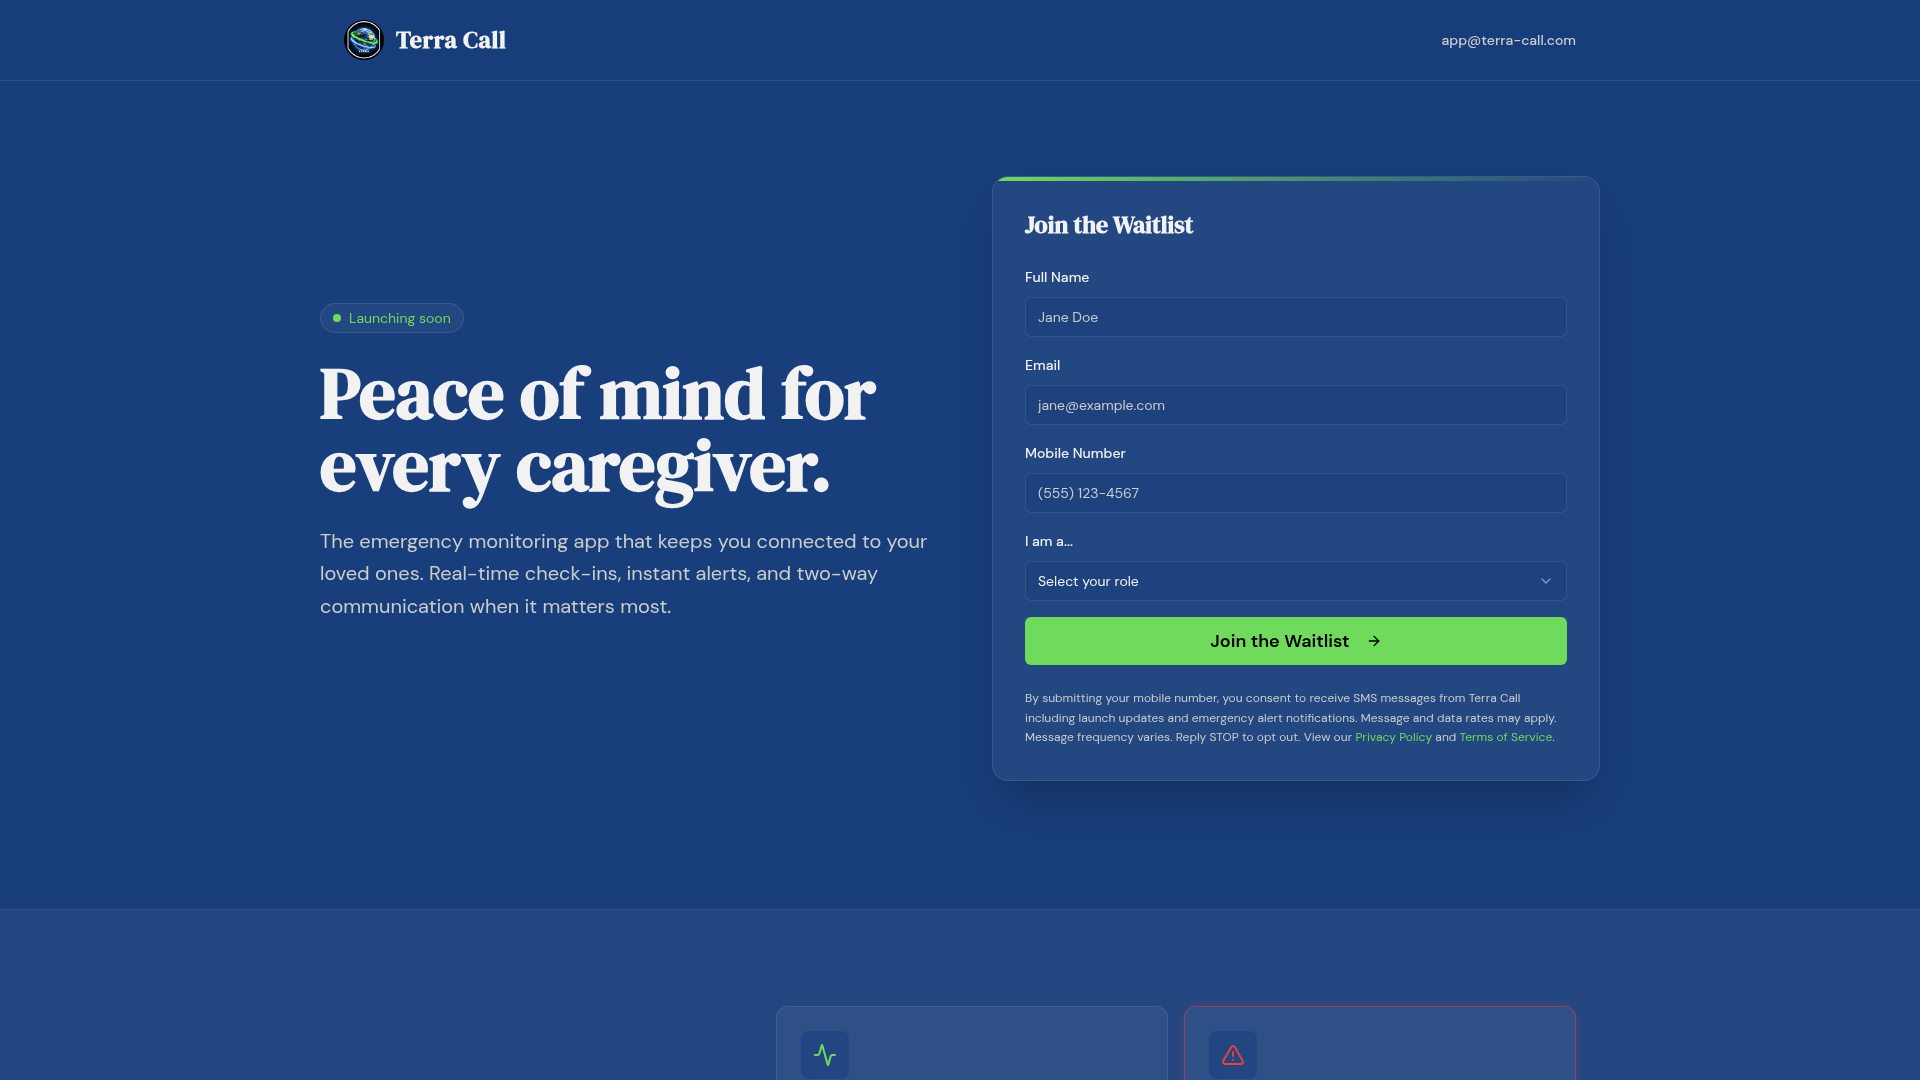
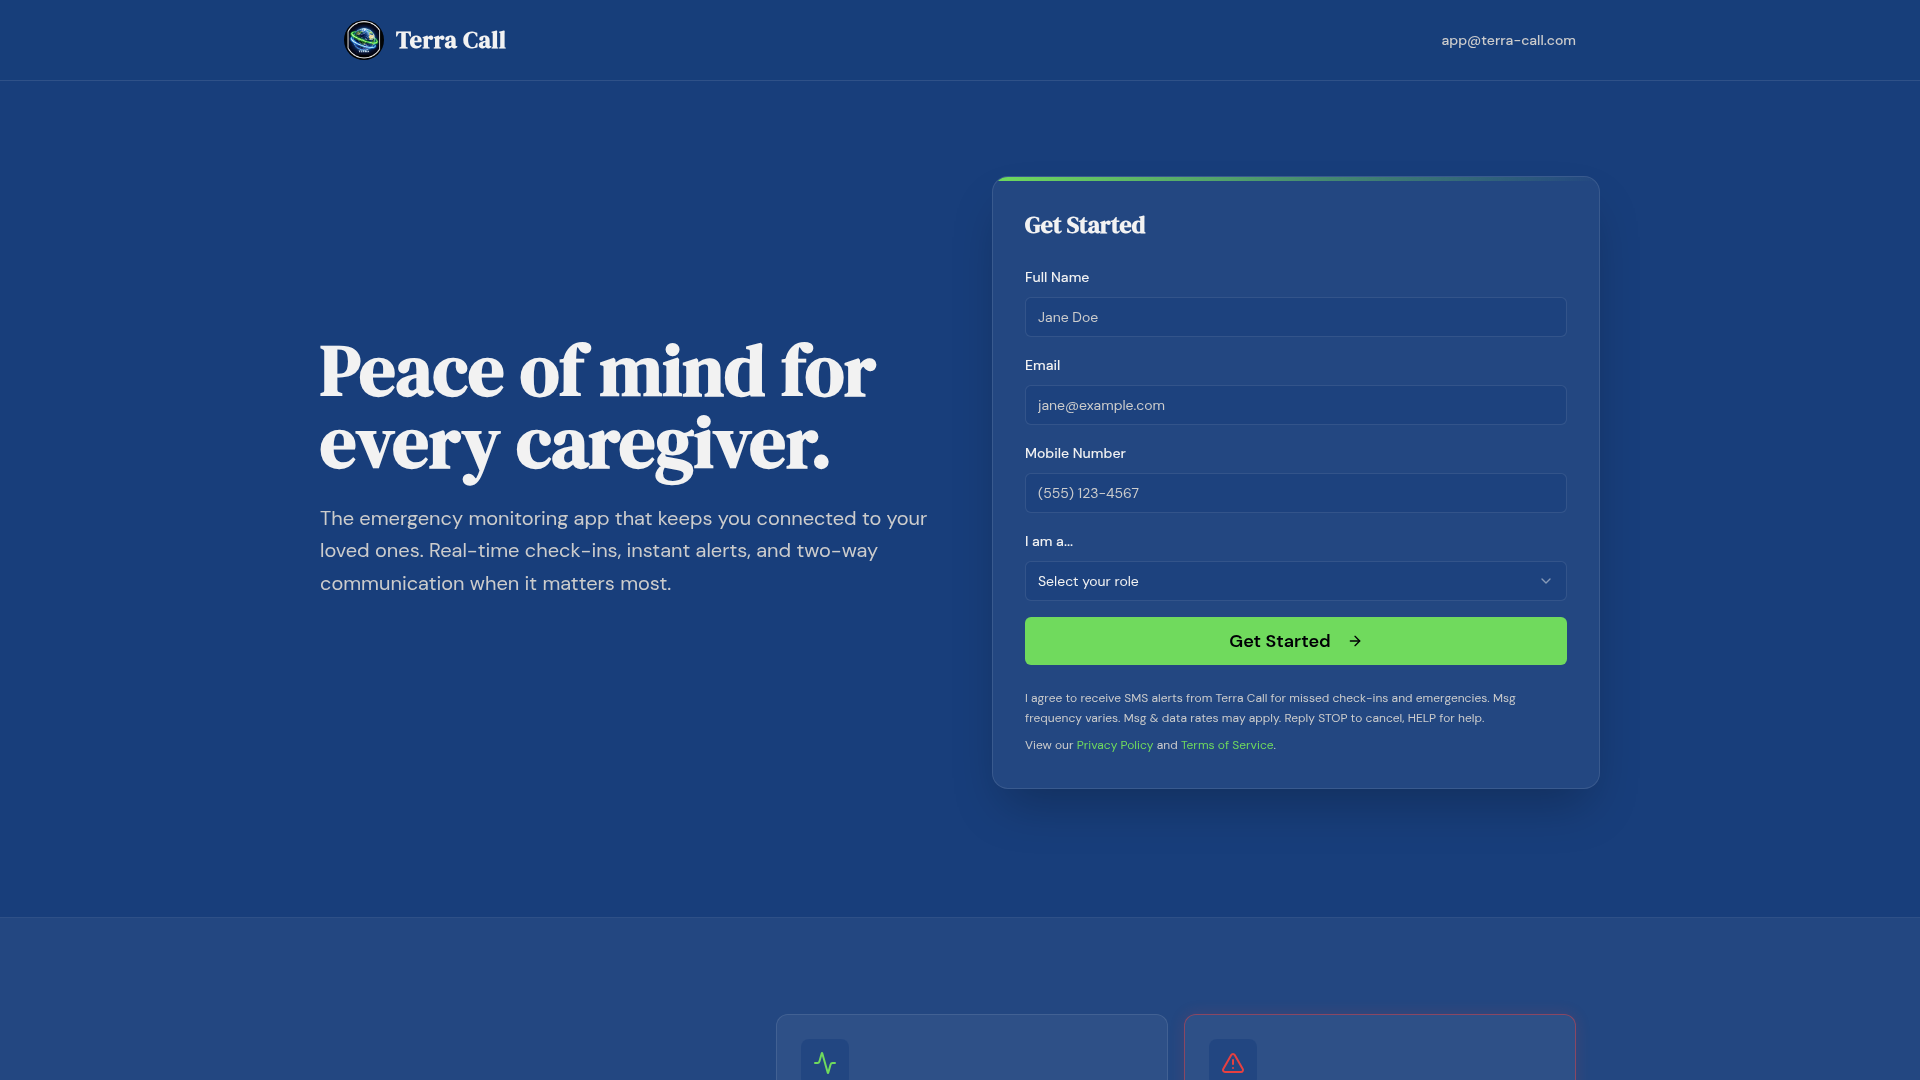
Add documentation for external website verification and troubleshooting
Document the process for verifying external website deployments using JavaScript bundle hashes and troubleshooting Cloudflare caching issues, along with details on Twilio A2P campaign requirements.

Replit-Commit-Author: Agent
Replit-Commit-Session-Id: 34d706d4-143b-492d-ac2d-494b000dca86
Replit-Commit-Checkpoint-Type: full_checkpoint
Replit-Commit-Event-Id: c2e0b4ad-cbe6-41a0-9a7f-4d9fa8b2b832
Replit-Commit-Screenshot-Url: https://storage.googleapis.com/screenshot-production-us-central1/0877f384-af64-4683-913a-f17162f0d0ae/34d706d4-143b-492d-ac2d-494b000dca86/DtHcIni
Replit-Helium-Checkpoint-Created: true

diff --git a/.agents/memory/terra-call-website.md b/.agents/memory/terra-call-website.md
@@ -1,0 +1,26 @@
+---
+name: terra-call.com marketing/legal website (external)
+description: The public website is NOT in this Replit project; how to verify its deploys and why Twilio A2P kept failing.
+---
+
+# terra-call.com — external site, not in this repo
+
+The public marketing/legal site at terra-call.com is built on a separate "Vibe" platform and fronted by Cloudflare. It is NOT one of this project's artifacts (this repo only has mobile, api-server, mockup-sandbox). You can VIEW it (curl + external_url screenshot) but cannot edit its source from here. Edits/deploys happen on the external platform.
+
+## Verifying a deploy actually went live
+- **Trust the hashed JS bundle, not `last-modified`.** The page is a Vite SPA; the real content lives in `/assets/index-<hash>.js`. A genuine code change produces a NEW hash. If the bundle hash is unchanged, the new build is NOT live even if `last-modified` moved or byte size changed (those can shift from meta-tag-only edits).
+- To check what the homepage renders without depending on render caches: `curl` the bundle and grep for telltale strings (e.g. "Join the Waitlist" vs "Get Started", "missed check-ins and emergencies" vs "launch updates").
+
+## Cloudflare edge cache gotchas
+- HTML is served with `cache-control: ... s-maxage=86400` → 24h edge cache. `cf-cache-status: HIT` means you're seeing a cached copy.
+- `<meta http-equiv="Cache-Control" no-cache>` tags do NOTHING for the CDN — Cloudflare obeys the HTTP response header only.
+- A bare-URL screenshot can show a stale render while `?fresh=1` shows the new build. Tell the user to **Purge Everything** in Cloudflare before relying on the plain URL (and before Twilio review).
+
+## Twilio A2P 10DLC rejection (error 30919 + CTA verification)
+Three things the reviewer checks on the LIVE public URL:
+1. Crawlable business info WITHOUT JS — the SPA must server-render business name/description, contact, and legal links in `<div id="root">` (else scanner sees blank page).
+2. Site must NOT read as "under development" (no "Launching soon" / waitlist framing).
+3. Opt-in CTA wording on the site must MATCH the campaign consent exactly ("missed check-ins and emergencies", "Msg frequency varies", "Msg & data rates may apply", "Reply STOP to cancel, HELP for help").
+4. Privacy policy must contain the exact sentence: opt-in data is "never shared, sold, or provided to third parties or lead generators".
+
+**Why:** Twilio reviewers fetch the live, possibly-cached production URL with a JS-less scanner. Stale Cloudflare cache or an un-published build = same old page = repeat rejection, even when the user's own browser shows the fixed version.

diff --git a/.agents/memory/MEMORY.md b/.agents/memory/MEMORY.md
@@ -3,3 +3,4 @@
 - [Caregiver alert history](caregiver-alert-history.md) — per-press alerts live on recipient user doc (events is admin-only); atomic append via runTransaction; emergency time uses lastEmergencyAt.
 - [Video call mode vs role](video-call-mode-vs-role.md) — camera-stream `mode` is media role (publish/view), NOT account role; targetUserId is always the recipient (room owner); publisher must hold camera+mic perms or Android connect hangs.
 - [Reolink Home Camera](reolink-home-camera.md) — server-proxied JPEG snapshots (no cloud API); creds AES-GCM-only in Firestore; any user-host proxy MUST block IPv4-mapped IPv6 + resolve-once-connect-by-IP (DNS-rebind TOCTOU).
+- [terra-call.com website](terra-call-website.md) — public site is EXTERNAL (Vibe+Cloudflare), not in repo; verify deploys by JS bundle hash (not last-modified); purge Cloudflare; Twilio A2P needs no-JS business info + matching CTA + privacy "never shared/sold" phrase.
